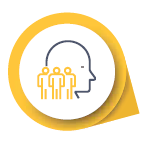
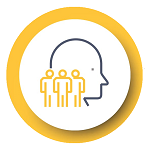
Amended images

diff --git a/README.md b/README.md
@@ -48,3 +48,11 @@ Designer ToDO:
     - Asses, Build, Evolve, Support icon for the webiste (remove the triangle)  (PNG with transparency)
     - Case studies icons (for both brochure and website): Mobile Web, Cloud Services, Data Platforms, IoT (PNG with transparency)
     - Services (Agile Delivery, Software Development, Data Platforms, DevOps, Cloud Services, Trainings) icons (PNG with transparency)
+
+<div>Icons made by <a href="https://www.freepik.com/?__hstc=57440181.15f697bbe89062f073e2380730e39712.1557316252473.1557316252473.1557316252473.1&__hssc=57440181.1.1557316252474&__hsfp=3148990692" title="Freepik">Freepik</a> from <a href="https://www.flaticon.com/" 			    title="Flaticon">www.flaticon.com</a> is licensed by <a href="http://creativecommons.org/licenses/by/3.0/" 			    title="Creative Commons BY 3.0" target="_blank">CC 3.0 BY</a></div>
+
+<div>Icons made by <a href="https://www.flaticon.com/authors/mynamepong" title="mynamepong">mynamepong</a> from <a href="https://www.flaticon.com/" 			    title="Flaticon">www.flaticon.com</a> is licensed by <a href="http://creativecommons.org/licenses/by/3.0/" 			    title="Creative Commons BY 3.0" target="_blank">CC 3.0 BY</a></div>
+
+<div>Icons made by <a href="https://www.flaticon.com/authors/gregor-cresnar" title="Gregor Cresnar">Gregor Cresnar</a> from <a href="https://www.flaticon.com/" 			    title="Flaticon">www.flaticon.com</a> is licensed by <a href="http://creativecommons.org/licenses/by/3.0/" 			    title="Creative Commons BY 3.0" target="_blank">CC 3.0 BY</a></div>
+
+<div>Icons made by <a href="https://www.flaticon.com/authors/linector" title="Linector">Linector</a> from <a href="https://www.flaticon.com/" 			    title="Flaticon">www.flaticon.com</a> is licensed by <a href="http://creativecommons.org/licenses/by/3.0/" 			    title="Creative Commons BY 3.0" target="_blank">CC 3.0 BY</a></div>
